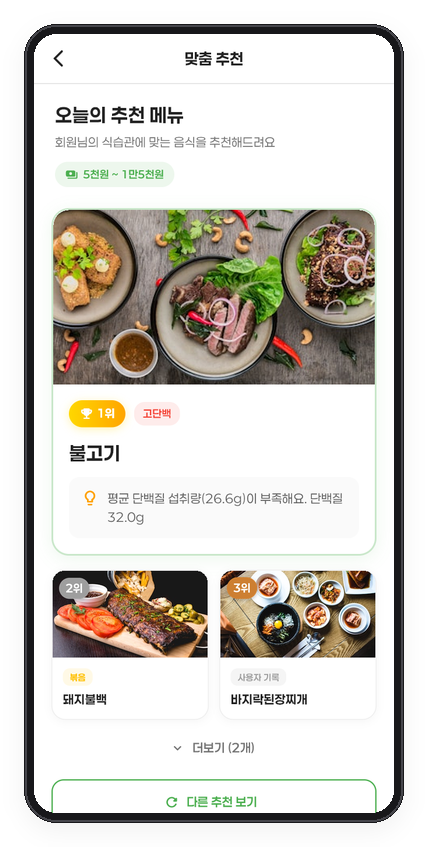
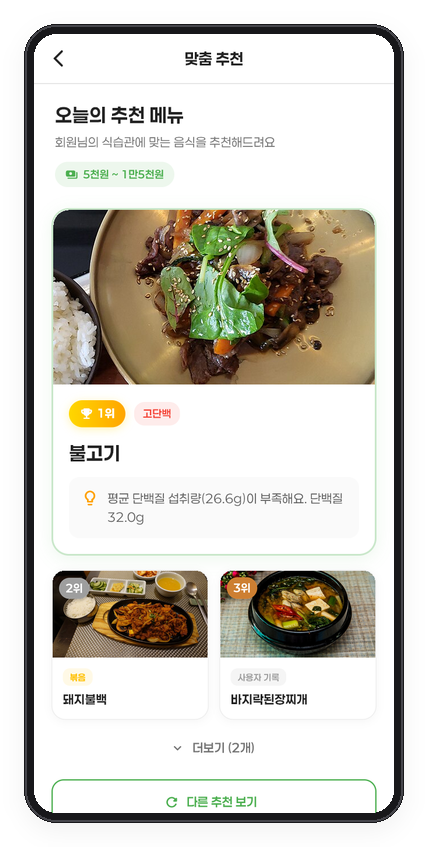
추천 화면 음식 사진을 실제 불고기·돼지불백·된장찌개 사진으로 교체, 사진 출처 추가

Changed region(s): [[0.1215, 0.2456, 0.8808, 0.4604], [0.5164, 0.6753, 0.8808, 0.7981], [0.1215, 0.6753, 0.486, 0.7981]]

diff --git a/README.md b/README.md
@@ -274,3 +274,12 @@ flutter run -d windows
 - [ ] **식단 점수** — 영양 비율 계산에서 탄수화물 대신 칼로리 합계를 사용하는 버그 수정
 - [ ] **보안** — 비밀번호 해시(bcrypt)·비밀번호 규칙·토큰 인증, 배포 서버 HTTPS 적용
 - [ ] **맛집 연동** — 대전광역시 음식점 정보 오픈 API로 추천 메뉴 → 실제 판매 식당 연결
+
+<br>
+
+<sub>
+<b>사진 출처</b> — 미리보기의 맞춤 추천 화면에 쓰인 음식 사진 (Wikimedia Commons)<br>
+불고기: <a href="https://commons.wikimedia.org/wiki/File:Bulgogi_(Marinated_beef._Served_with_rice)_-_Kogi_2023-09-11.jpg">Andy Li</a>, CC0 ·
+돼지불백: <a href="https://commons.wikimedia.org/wiki/File:Spicy_Pork_Bulgogi,_L%27Arbre_de_Sel,_Montparnasse,_Paris_001.jpg">Guilhem Vellut</a>, <a href="https://creativecommons.org/licenses/by/2.0/">CC BY 2.0</a> (잘라서 사용) ·
+바지락된장찌개: <a href="https://commons.wikimedia.org/wiki/File:Doenjang-jjigae.jpg">jyleen21</a>, CC0
+</sub>
